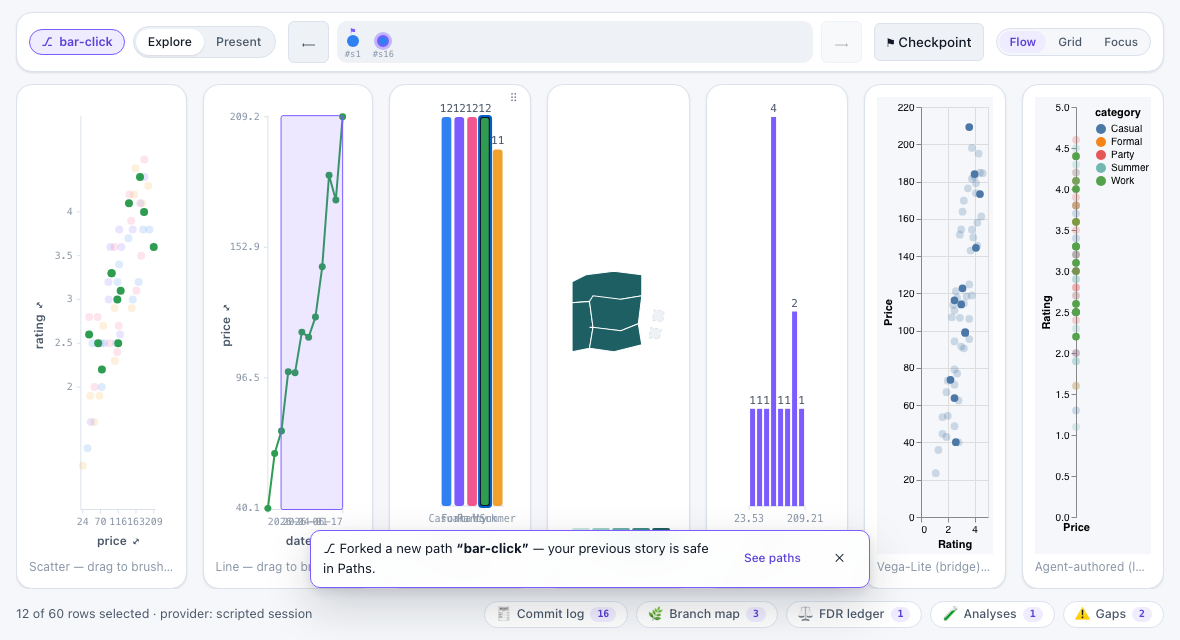
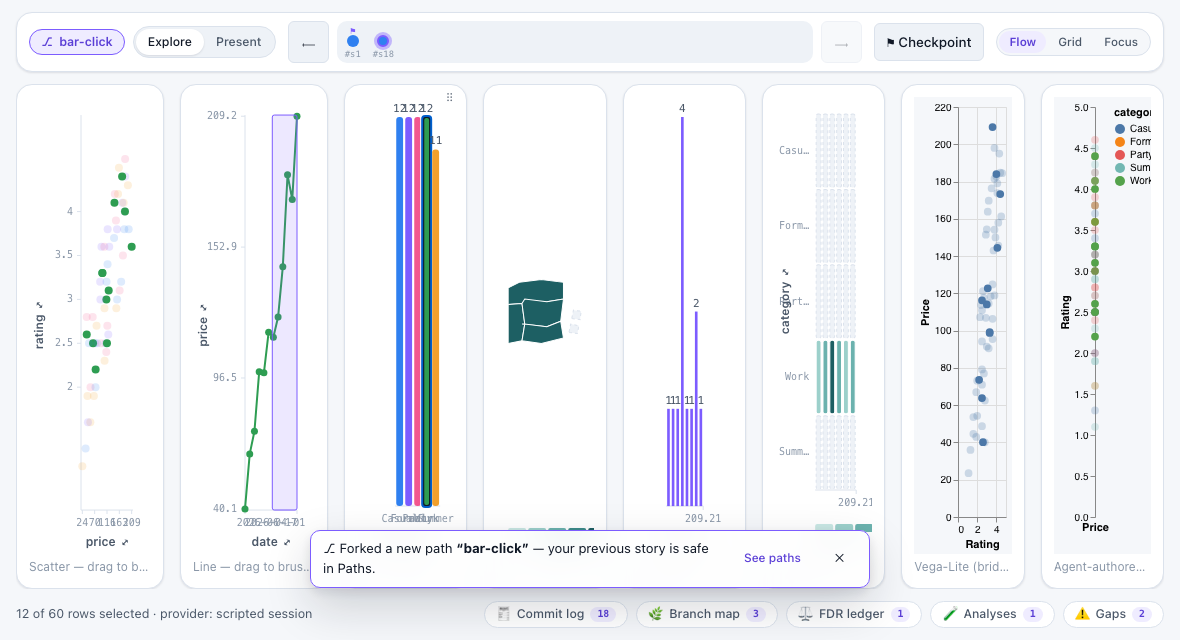
feat(gallery): the heatmap as the 8th cockpit cell — cell-click proven live end to end (D29 gallery)
scripted.ts declares the heatmap view with the honest cell-only capability
(encodings: ['cell']); entry.tsx computes the 2-D cells host-side (ONE
equalWidthBins fixes the price edges; recountBins per category under the
other views' clauses — the transform-ownership rule, one dimension up) and
wires emissions through view.emit. The smoke drives it in real Chromium:
one cell click lands exactly ONE commit (badge +1, never two), BOTH
constraints crossfilter the other charts (readout drops but stays > 0,
scatter dims), the commit log tells the compound in plain words
('price … – … and category = …'), click-again clears both at once and the
crossfilter returns to baseline — zero page/shell scroll, zero console
errors throughout. VizHeatmap's row-label gutter now ADAPTS to the measured
cell (tight gutter + honest truncation in the squeezed 8-cell flow; full
names stay on every cell's tooltip/aria). Mobile carousel now counts 8
dots; the line-brush test drags the right third (the denser band narrowed
its plot). Screenshots refreshed once under UPDATE_SCREENSHOTS=1 — new:
gallery-heatmap.png, gallery-heatmap-dark.png,
gallery-heatmap-crossfiltered.png.

1750 tests, coverage 100/100/100/100; all five typechecks clean.

diff --git a/ui/gallery/smoke.test.ts b/ui/gallery/smoke.test.ts
@@ -21,6 +21,11 @@
  *     buckets (src/data equalWidthBins/recountBins — the chart never bins), a
  *     bucket-edge-snapped interval brush, click-a-bar → one bucket,
  *     click-again → cleared — three REAL commits, crossfiltering both ways;
+ *   - D29, the compound-cell HEATMAP as the 8th cell: one cell click selects
+ *     price AND category together and lands exactly ONE commit whose predicate
+ *     is the AND of both sides; BOTH constraints crossfilter the other charts;
+ *     the commit log tells it in plain words ("price 120 – 165 and category =
+ *     Formal"); click-again clears both at once;
  *   - a report chip opens a LARGE frosted-glass modal hosting the panel, with
  *     scrolling allowed only INSIDE the modal body;
  *   - ⚑ opens the checkpoint naming modal; Enter lands a REAL checkpoint;
@@ -124,6 +129,9 @@ describe.skipIf(!existsSync(CHROME))('vizfootprint-ui gallery smoke (real headle
     // the histogram cell (built from the public primitives): 8 HOST-computed buckets
     expect(await page.locator('svg.vzf-histogram rect.vzf-histbar').count()).toBe(8);
     await maybeElementShot(page, '[data-chart="histogram"]', path.join(SHOTS, 'gallery-histogram.png'));
+    // the heatmap cell (D29): 6 HOST-computed price buckets × 5 category rows
+    expect(await page.locator('svg.vzf-heatmap rect.vzf-heatcell').count()).toBe(30);
+    await maybeElementShot(page, '[data-chart="heatmap"]', path.join(SHOTS, 'gallery-heatmap.png'));
     // the uninhabited region is HONESTLY empty: neutral fill class + no-rows tooltip
     const isles = page.locator('svg.vzf-map [data-region="Outer Isles"]');
     expect((await isles.getAttribute('class')) ?? '').toContain('vzf-region-empty');
@@ -248,6 +256,62 @@ describe.skipIf(!existsSync(CHROME))('vizfootprint-ui gallery smoke (real headle
     await expectNoPageOrShellScroll(page);
   }, 30_000);
 
+  it('the heatmap (D29): one cell click = ONE compound commit; BOTH constraints crossfilter; click-again clears', async () => {
+    const commits = async (): Promise<number> =>
+      Number(await page.locator('[data-report="commits"] .vzf-report-badge').textContent());
+    const readout = async (): Promise<number> =>
+      Number((((await page.locator('.vzf-cockpit-readout').textContent()) ?? '').match(/^(\d+) of 60/) ?? [])[1]);
+    const rowsBefore = await readout();
+    const scatterDimBefore = await page.locator('svg.vzf-scatter circle.vzf-dim').count();
+
+    // 1) click a NON-EMPTY cell → exactly ONE commit lands (the D29 ruling),
+    //    and its predicate is the AND of both sides — the readout drops to
+    //    that cell's rows and the scatter dims the rows either side excluded
+    const c0 = await commits();
+    const cell = page.locator('svg.vzf-heatmap rect.vzf-heatcell:not(.vzf-heatcell-empty)').first();
+    await cell.click();
+    await page.waitForFunction(
+      (n) => Number(document.querySelector('[data-report="commits"] .vzf-report-badge')?.textContent) > n,
+      c0,
+      { timeout: 8000 },
+    );
+    expect(await commits()).toBe(c0 + 1); // ONE commit — never two correlationId-linked ones
+    const rowsUnderCell = await readout();
+    expect(rowsUnderCell).toBeGreaterThan(0); // the cell was non-empty, so the AND keeps its rows
+    expect(rowsUnderCell).toBeLessThan(rowsBefore); // …and BOTH constraints genuinely filter
+    expect(await page.locator('svg.vzf-scatter circle.vzf-dim').count()).toBeGreaterThan(scatterDimBefore);
+    // the selected cell wears the outline, derived from the fold
+    await page.waitForSelector('svg.vzf-heatmap rect.vzf-heatcell.vzf-selected');
+    await maybeScreenshot(page, { path: path.join(SHOTS, 'gallery-heatmap-crossfiltered.png'), fullPage: false });
+
+    // the commit log tells the compound in plain words ("price 120 – 165 and category = Formal")
+    await page.locator('[data-report="commits"]').click();
+    await page.waitForSelector('[data-vzf-modal="report-commits"] [data-vzf="commit-log"]');
+    const logText = (await page.locator('[data-vzf-modal="report-commits"]').textContent()) ?? '';
+    expect(logText).toMatch(/price \d+(\.\d+)? – \d+(\.\d+)? and category = /);
+    await page.keyboard.press('Escape');
+    await page.waitForSelector('[data-vzf-modal="report-commits"]', { state: 'detached' });
+
+    // 2) click the SAME cell again → the CLEARED cell (one more real commit);
+    //    BOTH constraints release and the crossfilter returns to baseline
+    const c1 = await commits();
+    await page.locator('svg.vzf-heatmap rect.vzf-heatcell.vzf-selected').click();
+    await page.waitForFunction(
+      (n) => Number(document.querySelector('[data-report="commits"] .vzf-report-badge')?.textContent) > n,
+      c1,
+      { timeout: 8000 },
+    );
+    expect(await commits()).toBe(c1 + 1);
+    await page.waitForFunction(
+      () => document.querySelectorAll('svg.vzf-heatmap rect.vzf-heatcell.vzf-selected').length === 0,
+      undefined,
+      { timeout: 8000 },
+    );
+    expect(await readout()).toBe(rowsBefore);
+    expect(await page.locator('svg.vzf-scatter circle.vzf-dim').count()).toBe(scatterDimBefore);
+    await expectNoPageOrShellScroll(page);
+  }, 30_000);
+
   it('the line time brush lands a REAL date-interval commit and crossfilters the other charts', async () => {
     const readout = async (): Promise<number> =>
       Number((((await page.locator('.vzf-cockpit-readout').textContent()) ?? '').match(/^(\d+) of 60/) ?? [])[1]);
@@ -255,11 +319,13 @@ describe.skipIf(!existsSync(CHROME))('vizfootprint-ui gallery smoke (real headle
     const rowsBefore = await readout();
     const scatterDimBefore = await page.locator('svg.vzf-scatter circle.vzf-dim').count();
 
-    // drag across the RIGHT half of the line plot (the late, high-price weeks,
-    // overlapping the scripted price brush so the intersection stays non-empty)
+    // drag across the RIGHT third of the line plot (the late, high-price weeks,
+    // overlapping the scripted price brush so the intersection stays non-empty;
+    // 0.65 not 0.45 — the D29 heatmap made the band one cell denser, so the
+    // narrower line plot needs a tighter drag to actually exclude early dates)
     const box = (await page.locator('svg.vzf-line').boundingBox())!;
     const midY = box.y + box.height / 2;
-    await page.mouse.move(box.x + box.width * 0.45, midY);
+    await page.mouse.move(box.x + box.width * 0.65, midY);
     await page.mouse.down();
     await page.mouse.move(box.x + box.width * 0.95, midY, { steps: 8 });
     await page.mouse.up();
@@ -558,6 +624,8 @@ describe.skipIf(!existsSync(CHROME))('vizfootprint-ui gallery smoke (real headle
     // the new charts in the dark palette (the map's ramp flips its anchor: high = brightest)
     await maybeElementShot(page, '[data-chart="line"]', path.join(SHOTS, 'gallery-line-dark.png'));
     await maybeElementShot(page, '[data-chart="map"]', path.join(SHOTS, 'gallery-map-dark.png'));
+    // the heatmap rides the same flipped ramp tokens (D29)
+    await maybeElementShot(page, '[data-chart="heatmap"]', path.join(SHOTS, 'gallery-heatmap-dark.png'));
     await page.emulateMedia({ colorScheme: 'light' });
   }, 30_000);
 
@@ -579,9 +647,9 @@ describe.skipIf(!existsSync(CHROME))('vizfootprint-ui gallery smoke (real headle
     });
     expect(strip.snapType, 'the charts band is a snap carousel on mobile').toContain('x');
     expect(strip.dotsDisplay, 'dot indicators show on mobile').not.toBe('none');
-    // scatter · line · bar · map · histogram · vl (the bridge cell) · the
-    // AGENT-AUTHORED chart (RP-3) — all seven ride the carousel
-    expect(strip.dotCount).toBe(7);
+    // scatter · line · bar · map · histogram · heatmap (D29) · vl (the bridge
+    // cell) · the AGENT-AUTHORED chart (RP-3) — all eight ride the carousel
+    expect(strip.dotCount).toBe(8);
     expect(Math.abs(strip.cellW - strip.stripW), 'each chart is one full-width page').toBeLessThanOrEqual(2);
     // both NEW charts are carousel cells with live content
     expect(await page.locator('[data-chart="line"] svg.vzf-line').count()).toBe(1);

diff --git a/ui/src/charts/VizHeatmap.tsx b/ui/src/charts/VizHeatmap.tsx
@@ -84,7 +84,22 @@ export interface VizHeatmapProps {
   readonly className?: string;
 }
 
-const PAD = { l: 74, r: 16, t: 16, b: 64 };
+const PAD = { r: 16, t: 16, b: 64 };
+
+/**
+ * The row-label gutter ADAPTS to the measured cell: a roomy cockpit cell
+ * shows full category names; a squeezed one (the 8-cell flow band) keeps the
+ * plot usable by tightening the gutter and TRUNCATING the labels — honestly,
+ * since every cell's tooltip and aria-label still carry the full name.
+ */
+function labelGutter(width: number): { padL: number; maxChars: number } {
+  return width >= 300 ? { padL: 74, maxChars: 12 } : { padL: 40, maxChars: 4 };
+}
+
+/** A row label fitted to the gutter — full when it fits, `…`-truncated when not. */
+function fitLabel(label: string, maxChars: number): string {
+  return label.length > maxChars ? `${label.slice(0, maxChars)}…` : label;
+}
 
 /** An x edge's position on the linear axis — numbers as-is, ISO dates by epoch. */
 function edgePos(edge: number | string): number | null {
@@ -166,7 +181,8 @@ export function VizHeatmap(props: VizHeatmapProps): JSX.Element {
 
   const d0 = cols.length > 0 ? cols[0]!.p0 : 0;
   const d1 = cols.length > 0 ? cols[cols.length - 1]!.p1 : 1;
-  const x = linearScale(d0, d1, PAD.l, width - PAD.r);
+  const { padL, maxChars } = labelGutter(width);
+  const x = linearScale(d0, d1, padL, width - PAD.r);
   const plotBottom = height - PAD.b;
   const plotH = plotBottom - PAD.t;
   const rowH = rows.length > 0 ? plotH / rows.length : plotH;
@@ -196,7 +212,7 @@ export function VizHeatmap(props: VizHeatmapProps): JSX.Element {
   const edges: { pos: number; label: string }[] = [];
   if (cols.length > 0) {
     const labelW = typeof cols[0]!.x0 === 'string' ? 68 : 44;
-    const fit = Math.max(2, Math.floor((width - PAD.l - PAD.r) / labelW));
+    const fit = Math.max(2, Math.floor((width - padL - PAD.r) / labelW));
     const step = Math.max(1, Math.ceil((cols.length + 1) / fit));
     const last = cols[cols.length - 1]!;
     for (let i = 0; i < cols.length; i += step) {
@@ -207,7 +223,7 @@ export function VizHeatmap(props: VizHeatmapProps): JSX.Element {
   }
 
   const legendW = 18;
-  const legendX = (i: number): number => PAD.l + i * (legendW + 2);
+  const legendX = (i: number): number => padL + i * (legendW + 2);
 
   return (
     <>
@@ -259,12 +275,12 @@ export function VizHeatmap(props: VizHeatmapProps): JSX.Element {
         )}
         {/* y category labels (row headers) */}
         {rows.map((yLabel) => (
-          <text key={yLabel} className="vzf-tick vzf-heat-row" x={PAD.l - 6} y={rowY(yLabel) + rowH / 2 + 3} textAnchor="end">
-            {yLabel}
+          <text key={yLabel} className="vzf-tick vzf-heat-row" x={padL - 6} y={rowY(yLabel) + rowH / 2 + 3} textAnchor="end">
+            {fitLabel(yLabel, maxChars)}
           </text>
         ))}
         {/* x baseline + edge ticks — the emitted intervals name exactly these edges */}
-        <line className="vzf-axis" x1={PAD.l} y1={plotBottom} x2={width - PAD.r} y2={plotBottom} />
+        <line className="vzf-axis" x1={padL} y1={plotBottom} x2={width - PAD.r} y2={plotBottom} />
         {edges.map((e, i) => (
           <g key={`e${i}`}>
             <line className="vzf-axis" x1={x(e.pos)} y1={plotBottom} x2={x(e.pos)} y2={plotBottom + 4} />
@@ -289,7 +305,7 @@ export function VizHeatmap(props: VizHeatmapProps): JSX.Element {
           )}
         </g>
         {/* the two interactive axis labels — both re-encode affordances */}
-        <AxisLabel x={(PAD.l + width - PAD.r) / 2} y={height - 8} text={xField} channel="x" onOpen={openPicker} />
+        <AxisLabel x={(padL + width - PAD.r) / 2} y={height - 8} text={xField} channel="x" onOpen={openPicker} />
         <AxisLabel x={14} y={(PAD.t + plotBottom) / 2} text={yField} channel="y" rotate={-90} onOpen={openPicker} />
         <desc>{`view ${viewId}: click a cell to select ${xField} and ${yField} together; click it again to clear`}</desc>
       </svg>

diff --git a/ui/gallery/entry.tsx b/ui/gallery/entry.tsx
@@ -21,6 +21,7 @@ import {
   VizLine,
   VizMap,
   VizHistogram,
+  VizHeatmap,
   TimeTravelBar,
   BranchMap,
   BranchPill,
@@ -128,6 +129,31 @@ function App(props: { view: SessionView; rows: readonly GalleryRow[] }): JSX.Ele
     histEdges,
     rows.filter(keepHist).map(histValueOf).filter((v): v is number | string => v !== null),
   ).bins;
+
+  // the heatmap's 2-D cells (D29): the SAME fixed x edges for every category
+  // row (equalWidthBins over ALL rows — stable while its own cell is live),
+  // counts recomputed per (bucket, category) under the OTHER views' clauses.
+  const encHm = state.encodings['heatmap'] ?? {};
+  const heatXField = encHm['x'] ?? 'price';
+  const heatYField = encHm['y'] ?? 'category';
+  const heatValueOf = (r: GalleryRow): number | string | null => {
+    const v = r[heatXField];
+    return typeof v === 'number' || typeof v === 'string' ? v : null;
+  };
+  const heatRowOf = (r: GalleryRow): string => String(r[heatYField]);
+  const heatEdges = useMemo(
+    () => equalWidthBins(rows.map(heatValueOf).filter((v): v is number | string => v !== null), { buckets: 6 }),
+    // heatValueOf closes only over heatXField — the deps carry its real inputs
+    [rows, heatXField],
+  );
+  const keepHeat = keepPredicate(selFor('heatmap'));
+  const heatRows = [...new Set(rows.map(heatRowOf))];
+  const heatData = heatRows.flatMap((y) =>
+    recountBins(
+      heatEdges,
+      rows.filter((r) => heatRowOf(r) === y && keepHeat(r)).map(heatValueOf).filter((v): v is number | string => v !== null),
+    ).bins.map((b) => ({ x0: b.x0, x1: b.x1, y, count: b.count })),
+  );
 
   // the map's value per region = the crossfiltered row COUNT (the canonical wiring)
   const keepMap = keepPredicate(selFor('map'));
@@ -306,6 +332,26 @@ function App(props: { view: SessionView; rows: readonly GalleryRow[] }): JSX.Ele
               columns={columns}
               encoding={encH}
               onEmit={(e) => void view.emit('histogram', e, 'histogram brush')}
+              onReencode={(v, c, f) => void view.reencode(v, c, f)}
+            />
+          ),
+        },
+        {
+          id: 'heatmap',
+          weight: 2.5,
+          caption: `Heatmap — click a cell to select ${heatXField} AND ${heatYField} together; click again to clear`,
+          render: ({ width, height }) => (
+            <VizHeatmap
+              viewId="heatmap"
+              data={heatData}
+              xField={heatXField}
+              yField={heatYField}
+              width={width}
+              height={height}
+              selection={selFor('heatmap')}
+              columns={columns}
+              encoding={encHm}
+              onEmit={(e) => void view.emit('heatmap', e, 'heatmap cell click')}
               onReencode={(v, c, f) => void view.reencode(v, c, f)}
             />
           ),

diff --git a/ui/src/charts/VizHeatmap.test.tsx b/ui/src/charts/VizHeatmap.test.tsx
@@ -104,8 +104,9 @@ describe('rendering — host cells on the shared ramp, honest absence', () => {
   });
 
   it('x edge ticks thin at a narrow width and a stepped label colliding with the final edge drops', () => {
-    // 8 buckets at width 200: fit=2 → step=5 → the i=5 label sits within 44px
-    // of the final-edge label and is dropped (the VizHistogram discipline)
+    // 8 buckets at width 200 (the tight gutter): fit=3 → step=3 → the i=6
+    // label sits within 44px of the final-edge label and is dropped (the
+    // VizHistogram discipline)
     const many: HeatmapCellDatum[] = Array.from({ length: 8 }, (_, i) => ({
       x0: i * 10,
       x1: (i + 1) * 10,
@@ -113,12 +114,22 @@ describe('rendering — host cells on the shared ramp, honest absence', () => {
       count: i + 1,
     }));
     const { container } = renderHeatmap({ data: many, width: 200 });
-    const ticks = [...container.querySelectorAll('text.vzf-tick')]
-      .map((t) => t.textContent)
-      .filter((t) => t !== 'Casual');
+    const ticks = [...container.querySelectorAll('text.vzf-tick')].map((t) => t.textContent);
     expect(ticks).toContain('0'); // the first stepped edge
     expect(ticks).toContain('80'); // the final edge always shows
-    expect(ticks).not.toContain('50'); // the collider was dropped, not the final edge
+    expect(ticks).not.toContain('60'); // the collider (i=6) was dropped, not the final edge
+  });
+
+  it('a squeezed cockpit cell tightens the row-label gutter and truncates honestly (full name stays on the cell aria)', () => {
+    const { container } = renderHeatmap({ width: 200 });
+    const rowLabels = [...container.querySelectorAll('text.vzf-heat-row')].map((t) => t.textContent);
+    expect(rowLabels).toContain('Casu…'); // truncated in the tight gutter
+    expect(rowLabels).not.toContain('Casual');
+    // the full name is never lost — it rides every cell's aria-label
+    expect(container.querySelector('[data-cell="0|Casual"]')!.getAttribute('aria-label')).toContain('category Casual');
+    // a roomy cell shows the full label
+    const { container: wide } = renderHeatmap({ width: 420 });
+    expect([...wide.querySelectorAll('text.vzf-heat-row')].map((t) => t.textContent)).toContain('Casual');
   });
 
   it('an unparseable date edge SKIPS its bucket (never guessed); empty data renders an empty plot', () => {

diff --git a/ui/gallery/scripted.ts b/ui/gallery/scripted.ts
@@ -44,6 +44,10 @@ export async function buildScriptedSession(): Promise<ScriptedGallery> {
       // PUBLIC primitives tier — declared like any first-party view so its
       // bucket-brush emissions land real commits.
       histogram: { actor: 'user', label: 'Price distribution' },
+      // D29: the compound-cell chart — one cell click selects price AND
+      // category together, landing ONE commit (the heatmap is the only view
+      // that declares the cell emission kind; see `capabilities` below).
+      heatmap: { actor: 'user', label: 'Price × category' },
       // the vizfootprint-vega-lite bridge cell (RP-2): a THIRD-PARTY-shaped
       // renderer riding the SAME declared-view/crossfilter loop as the four
       // first-party charts above — must be declared here for its emissions
@@ -56,7 +60,12 @@ export async function buildScriptedSession(): Promise<ScriptedGallery> {
       { viewId: 'line', chartKind: 'line', channels: ['x', 'y', 'color'], initial: { x: 'date', y: 'price' } },
       { viewId: 'map', chartKind: 'map', channels: ['region'], initial: { region: 'region' } },
       { viewId: 'histogram', chartKind: 'histogram', channels: ['x'], initial: { x: 'price' } },
+      { viewId: 'heatmap', chartKind: 'heatmap', channels: ['x', 'y'], initial: { x: 'price', y: 'category' } },
     ],
+    // R14 honest capability: the heatmap emits ONLY the D29 cell kind — a
+    // point/interval probe against it is a typed guard-failed gap, and a cell
+    // against any classic chart likewise (they never declare 'cell').
+    capabilities: [{ viewId: 'heatmap', canProbe: true, encodings: ['cell'] }],
     analyses: {
       correlation: correlationAnalysis({ x: 'price', y: 'rating' }),
       // 'discount' does not exist → an honestly BLOCKED readiness row
